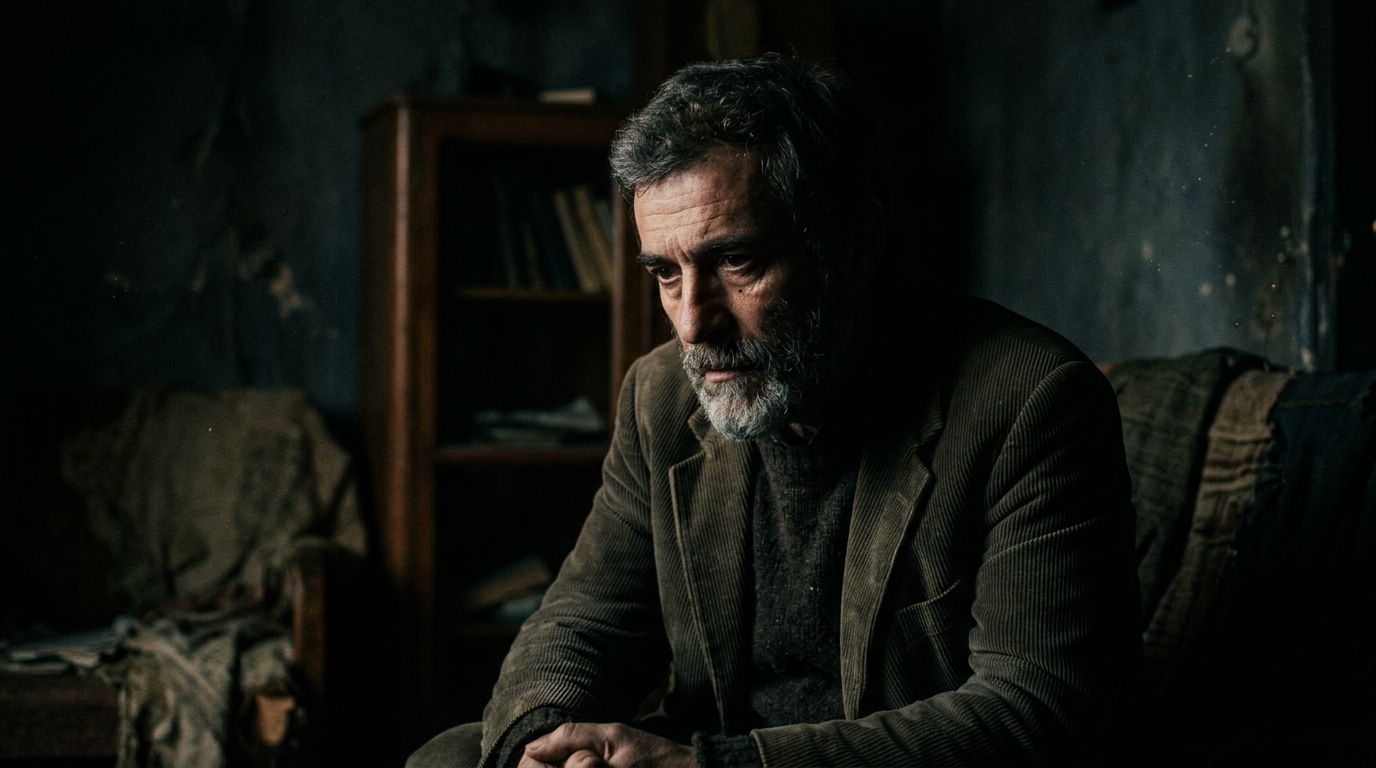
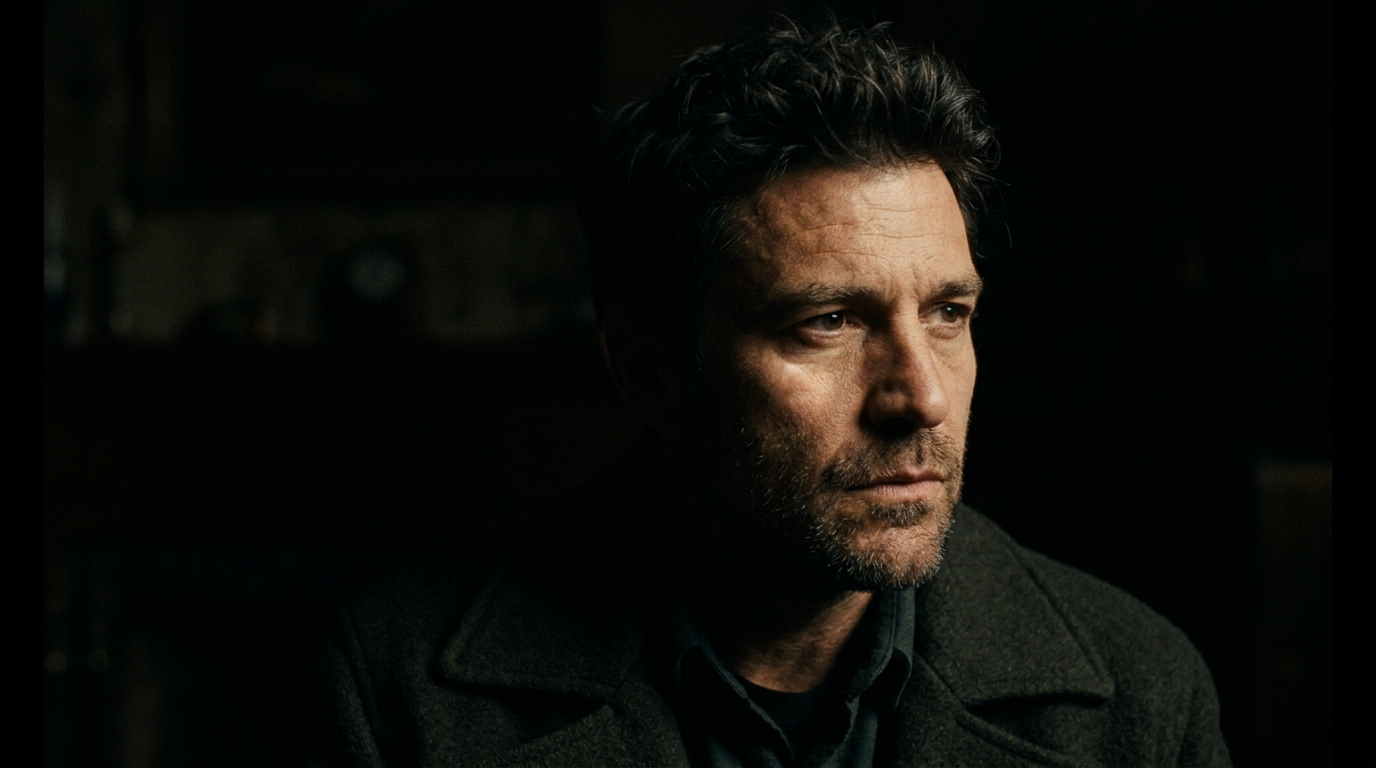
feat(lighting): valider et synchroniser le rendu cinema fidele pour l'eclairage Rembrandt

diff --git a/sw.js b/sw.js
@@ -1,5 +1,5 @@
 // Généré par outils/generer-sw.mjs — ne pas modifier à la main
-const VERSION = 'jco-17285b620f';
+const VERSION = 'jco-ec08a78bc6';
 const PRECACHE = ["./",
   "./css/app.css",
   "./fonts/fraunces-latin-opsz-normal.woff2",
@@ -119,11 +119,58 @@ const PRECACHE = ["./",
   "./js/tools.js",
   "./js/ui.js",
   "./manifest.webmanifest",
-  "./scratch/commit_099b093.jpg",
-  "./scratch/target_ref_flipped.jpg",
-  "./scratch/target_ref_raw.jpg",
-  "./scratch/target_sym_flipped.jpg",
-  "./scratch/target_sym_raw.jpg",
+  "./scratch/flip_candidate.ps1",
+  "./scratch/generate_hard.mjs",
+  "./scratch/generate_perfect.mjs",
+  "./scratch/generate_pro_batch.mjs",
+  "./scratch/generate_pro_strict.mjs",
+  "./scratch/generate_test.mjs",
+  "./scratch/generate_triangles.mjs",
+  "./scratch/list_models.mjs",
+  "./scratch/plan_rembrandt.svg",
+  "./scratch/prepare_ref.ps1",
+  "./scratch/pro_rem_1.jpg",
+  "./scratch/pro_rem_2.jpg",
+  "./scratch/pro_rem_turn_1.jpg",
+  "./scratch/pro_rem_turn_1_flipped.jpg",
+  "./scratch/pro_rem_turn_2.jpg",
+  "./scratch/pro_rem_turn_3.jpg",
+  "./scratch/pro_strict_triangle_1.jpg",
+  "./scratch/pro_strict_triangle_2.jpg",
+  "./scratch/pro_strict_triangle_3.jpg",
+  "./scratch/rem_cand_1.jpg",
+  "./scratch/rem_cand_2.jpg",
+  "./scratch/rem_cand_3.jpg",
+  "./scratch/rem_cand_4.jpg",
+  "./scratch/rem_hard_1.jpg",
+  "./scratch/rem_hard_2.jpg",
+  "./scratch/rem_hard_3.jpg",
+  "./scratch/rem_hard_4.jpg",
+  "./scratch/rem_multimodal_1.jpg",
+  "./scratch/rem_multimodal_2.jpg",
+  "./scratch/rem_perfect_1.jpg",
+  "./scratch/rem_perfect_2.jpg",
+  "./scratch/rem_perfect_3.jpg",
+  "./scratch/rem_perfect_4.jpg",
+  "./scratch/rem_text_only_precise.jpg",
+  "./scratch/rem_tri_1.jpg",
+  "./scratch/rem_tri_3.jpg",
+  "./scratch/rem_tri_4.jpg",
+  "./scratch/rembrandt_angle_1.jpg",
+  "./scratch/rembrandt_angle_2.jpg",
+  "./scratch/rembrandt_angle_3.jpg",
+  "./scratch/rembrandt_batch_1.jpg",
+  "./scratch/rembrandt_batch_2.jpg",
+  "./scratch/rembrandt_batch_3.jpg",
+  "./scratch/rembrandt_batch_4.jpg",
+  "./scratch/rembrandt_ref_flipped.jpg",
+  "./scratch/rembrandt_test1.jpg",
+  "./scratch/rembrandt_test2.jpg",
+  "./scratch/rembrandt_v1.jpg",
+  "./scratch/rembrandt_v2.jpg",
+  "./scratch/rembrandt_v3.jpg",
+  "./scratch/test_pro_model.mjs",
+  "./scratch/tullaway.jpg",
   "./vendor/three.bundle.js",
   "./videos/techniques/camera-epaule.mp4",
   "./videos/techniques/camera-tremblee.mp4",
